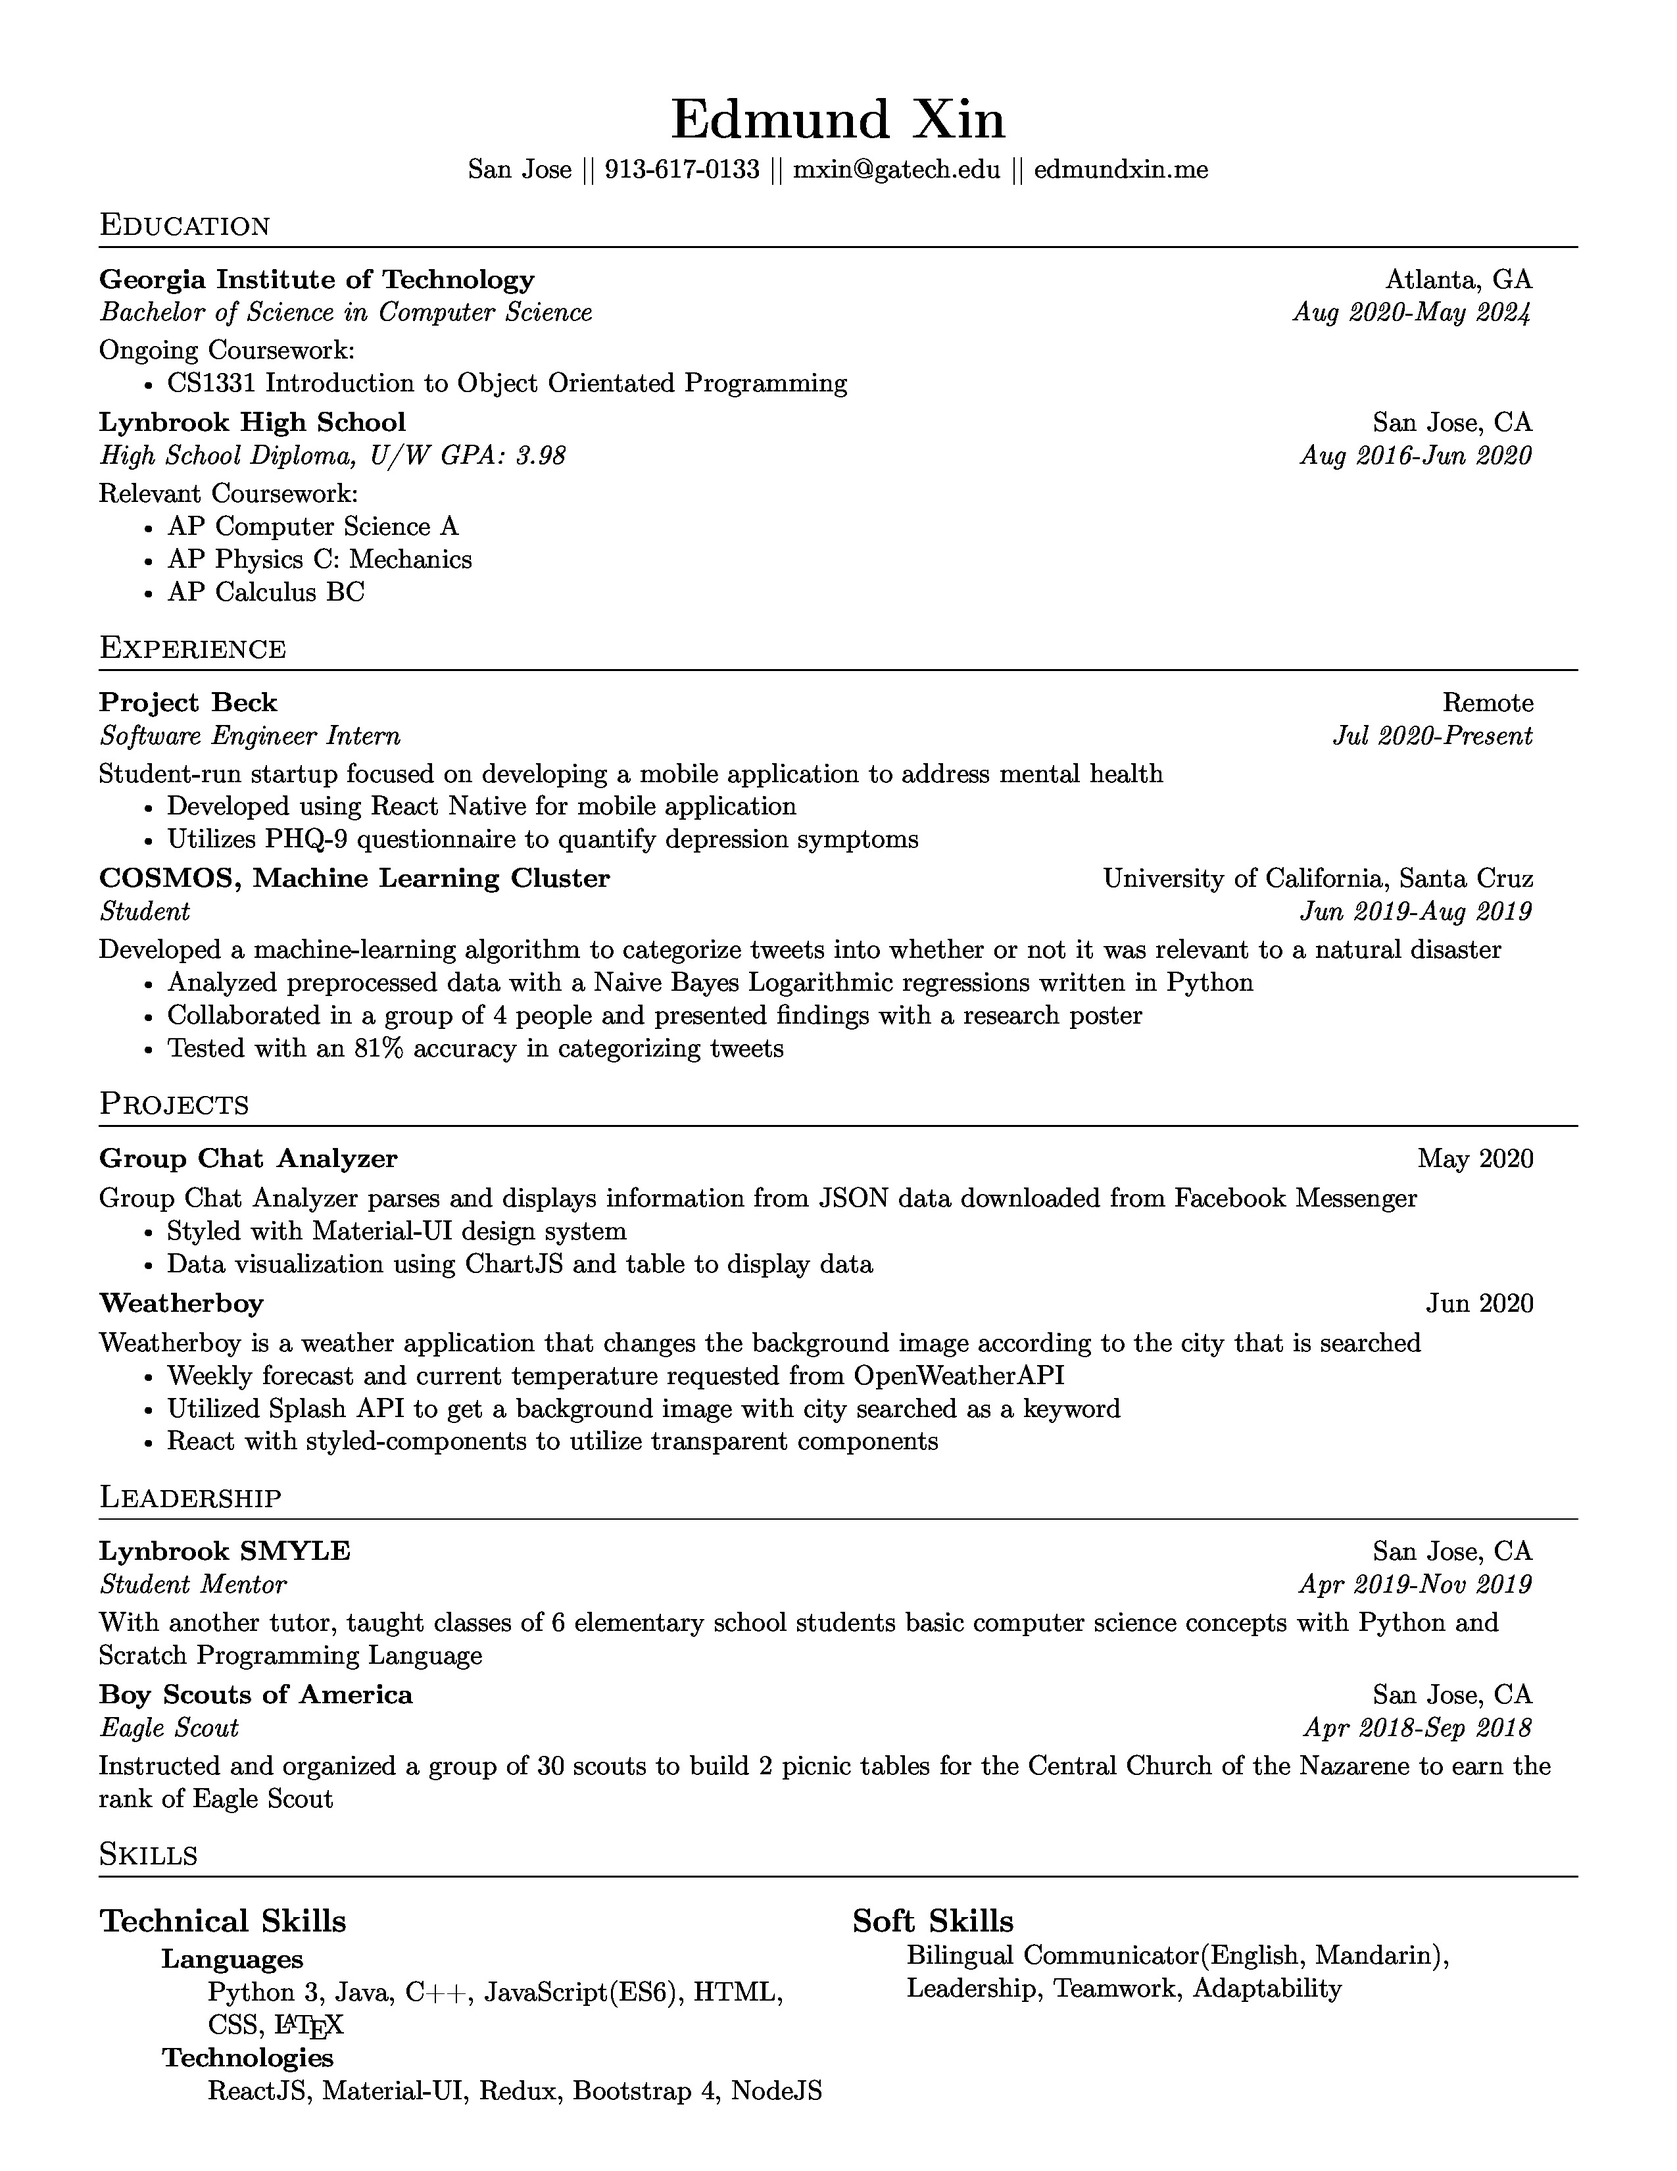
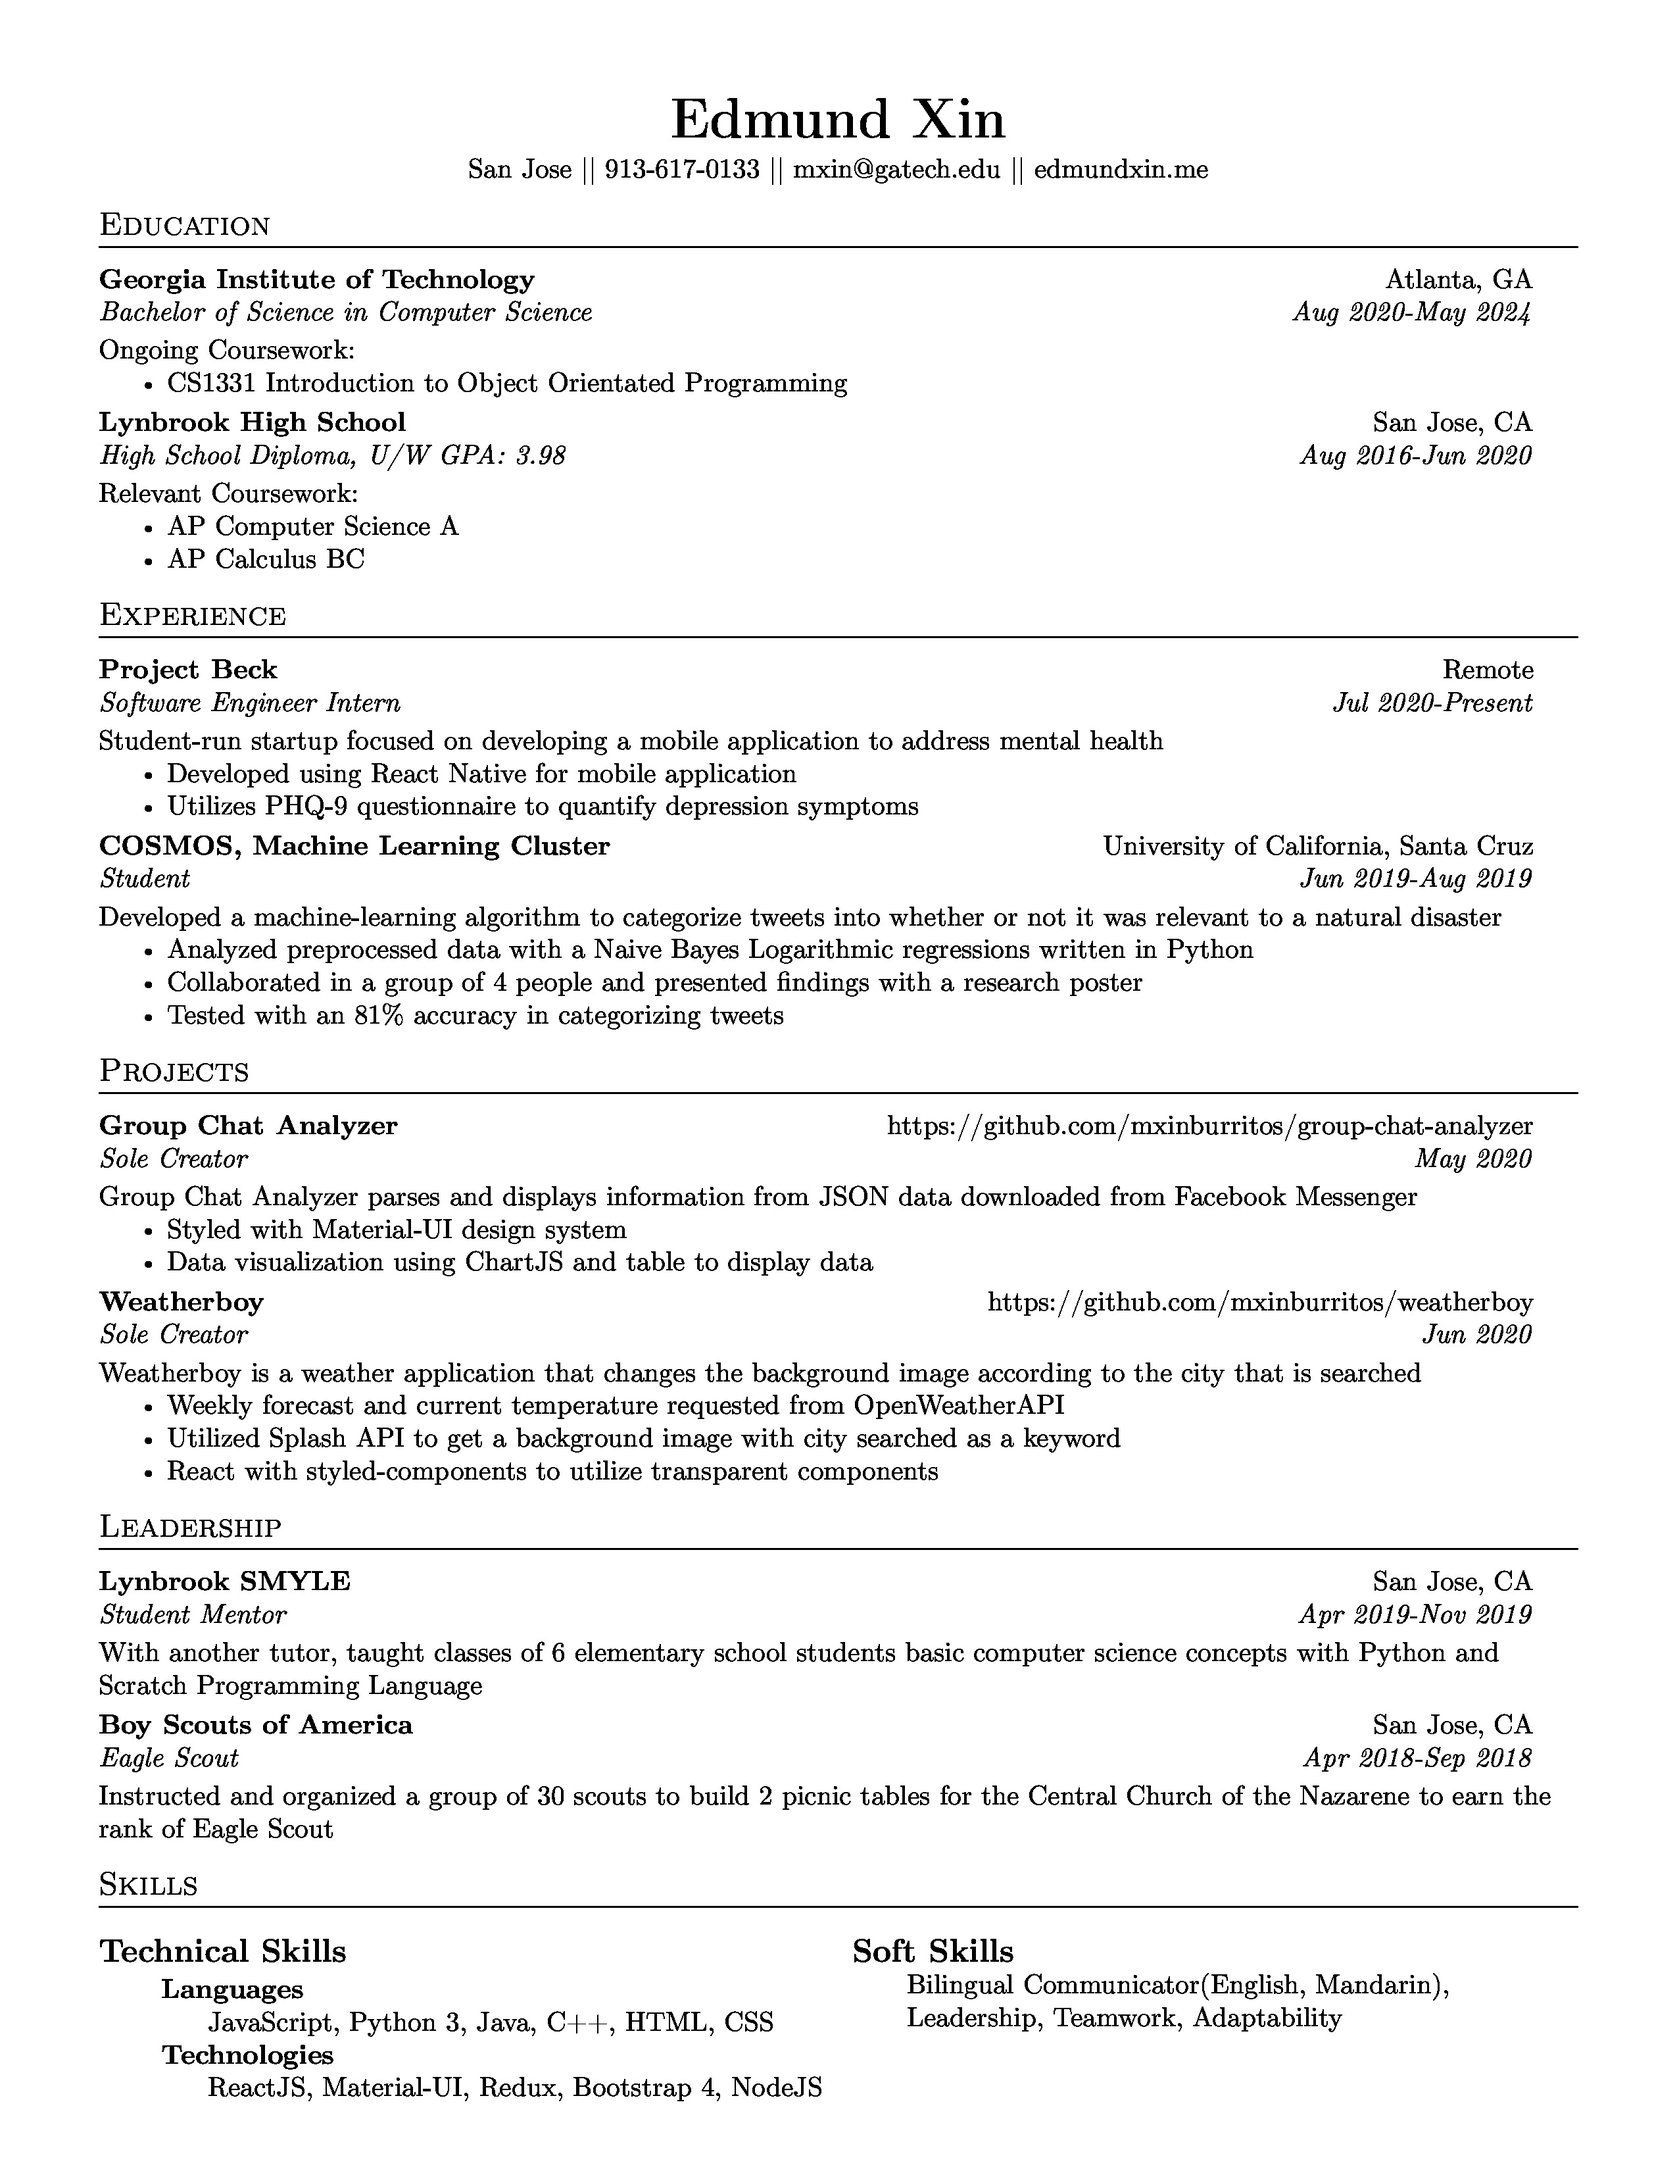
added github links

diff --git a/resume.tex b/resume.tex
@@ -118,7 +118,6 @@ Relevant Coursework:
 \setlist{nolistsep}
 \begin{itemize}[label=\raisebox{0.25ex}{\tiny$\bullet$}]
   \item AP Computer Science A
-  \item AP Physics C: Mechanics
   \item AP Calculus BC
 \end{itemize}
 
@@ -149,7 +148,7 @@ Developed a machine-learning algorithm to categorize tweets into whether or not 
 
 \section{Projects}
 
-\resumeSubheadingTwo{Group Chat Analyzer}{May 2020}
+\resumeSubheading{Group Chat Analyzer}{https://github.com/mxinburritos/group-chat-analyzer}{Sole Creator}{May 2020}
 
 Group Chat Analyzer parses and displays information from JSON data downloaded from Facebook Messenger
 
@@ -159,8 +158,7 @@ Group Chat Analyzer parses and displays information from JSON data downloaded fr
   \item Data visualization using ChartJS and table to display data
 \end{itemize}
 
-\resumeSubheadingTwo{Weatherboy}
-{Jun 2020}
+\resumeSubheading{Weatherboy}{https://github.com/mxinburritos/weatherboy}{Sole Creator}{Jun 2020}
 
 Weatherboy is a weather application that changes the background image according to the city that is searched
 
@@ -193,7 +191,7 @@ Instructed and organized a group of 30 scouts to build 2 picnic tables for the C
 \subsubsection{Languages}
 
 \begin{adjustwidth}{4em}{}
-Python 3, Java, C++, JavaScript(ES6), HTML, CSS, {\LaTeX}
+JavaScript, Python 3, Java, C++, HTML, CSS
 \end{adjustwidth}
 
 \subsubsection{Technologies}
